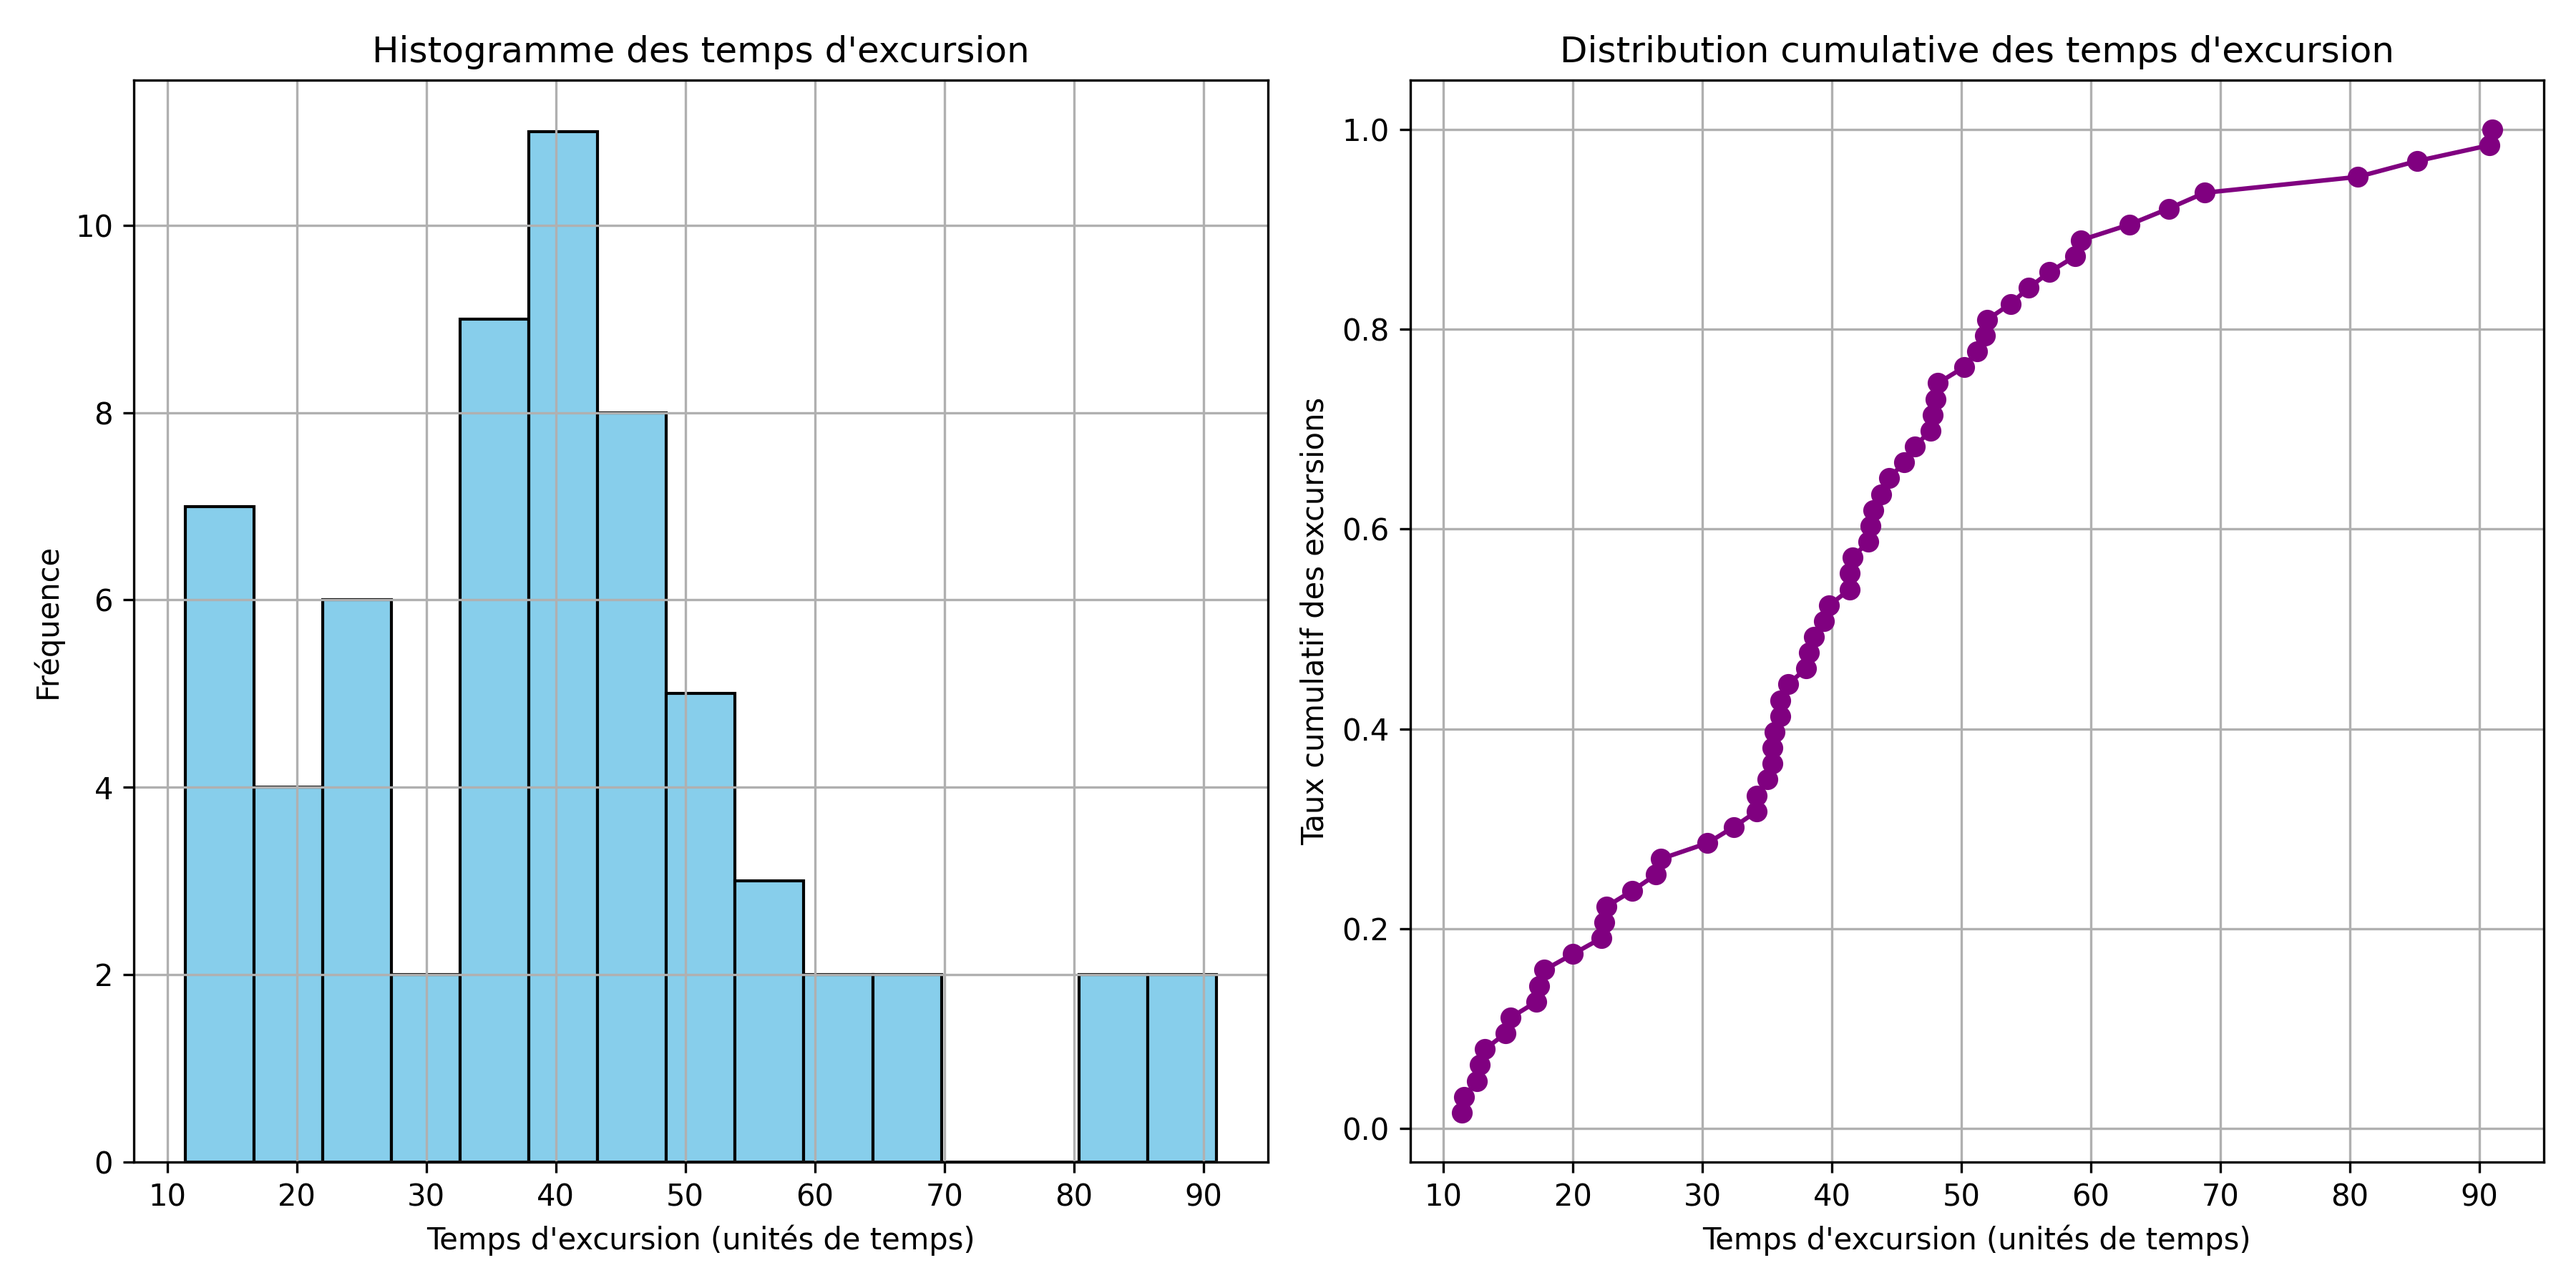
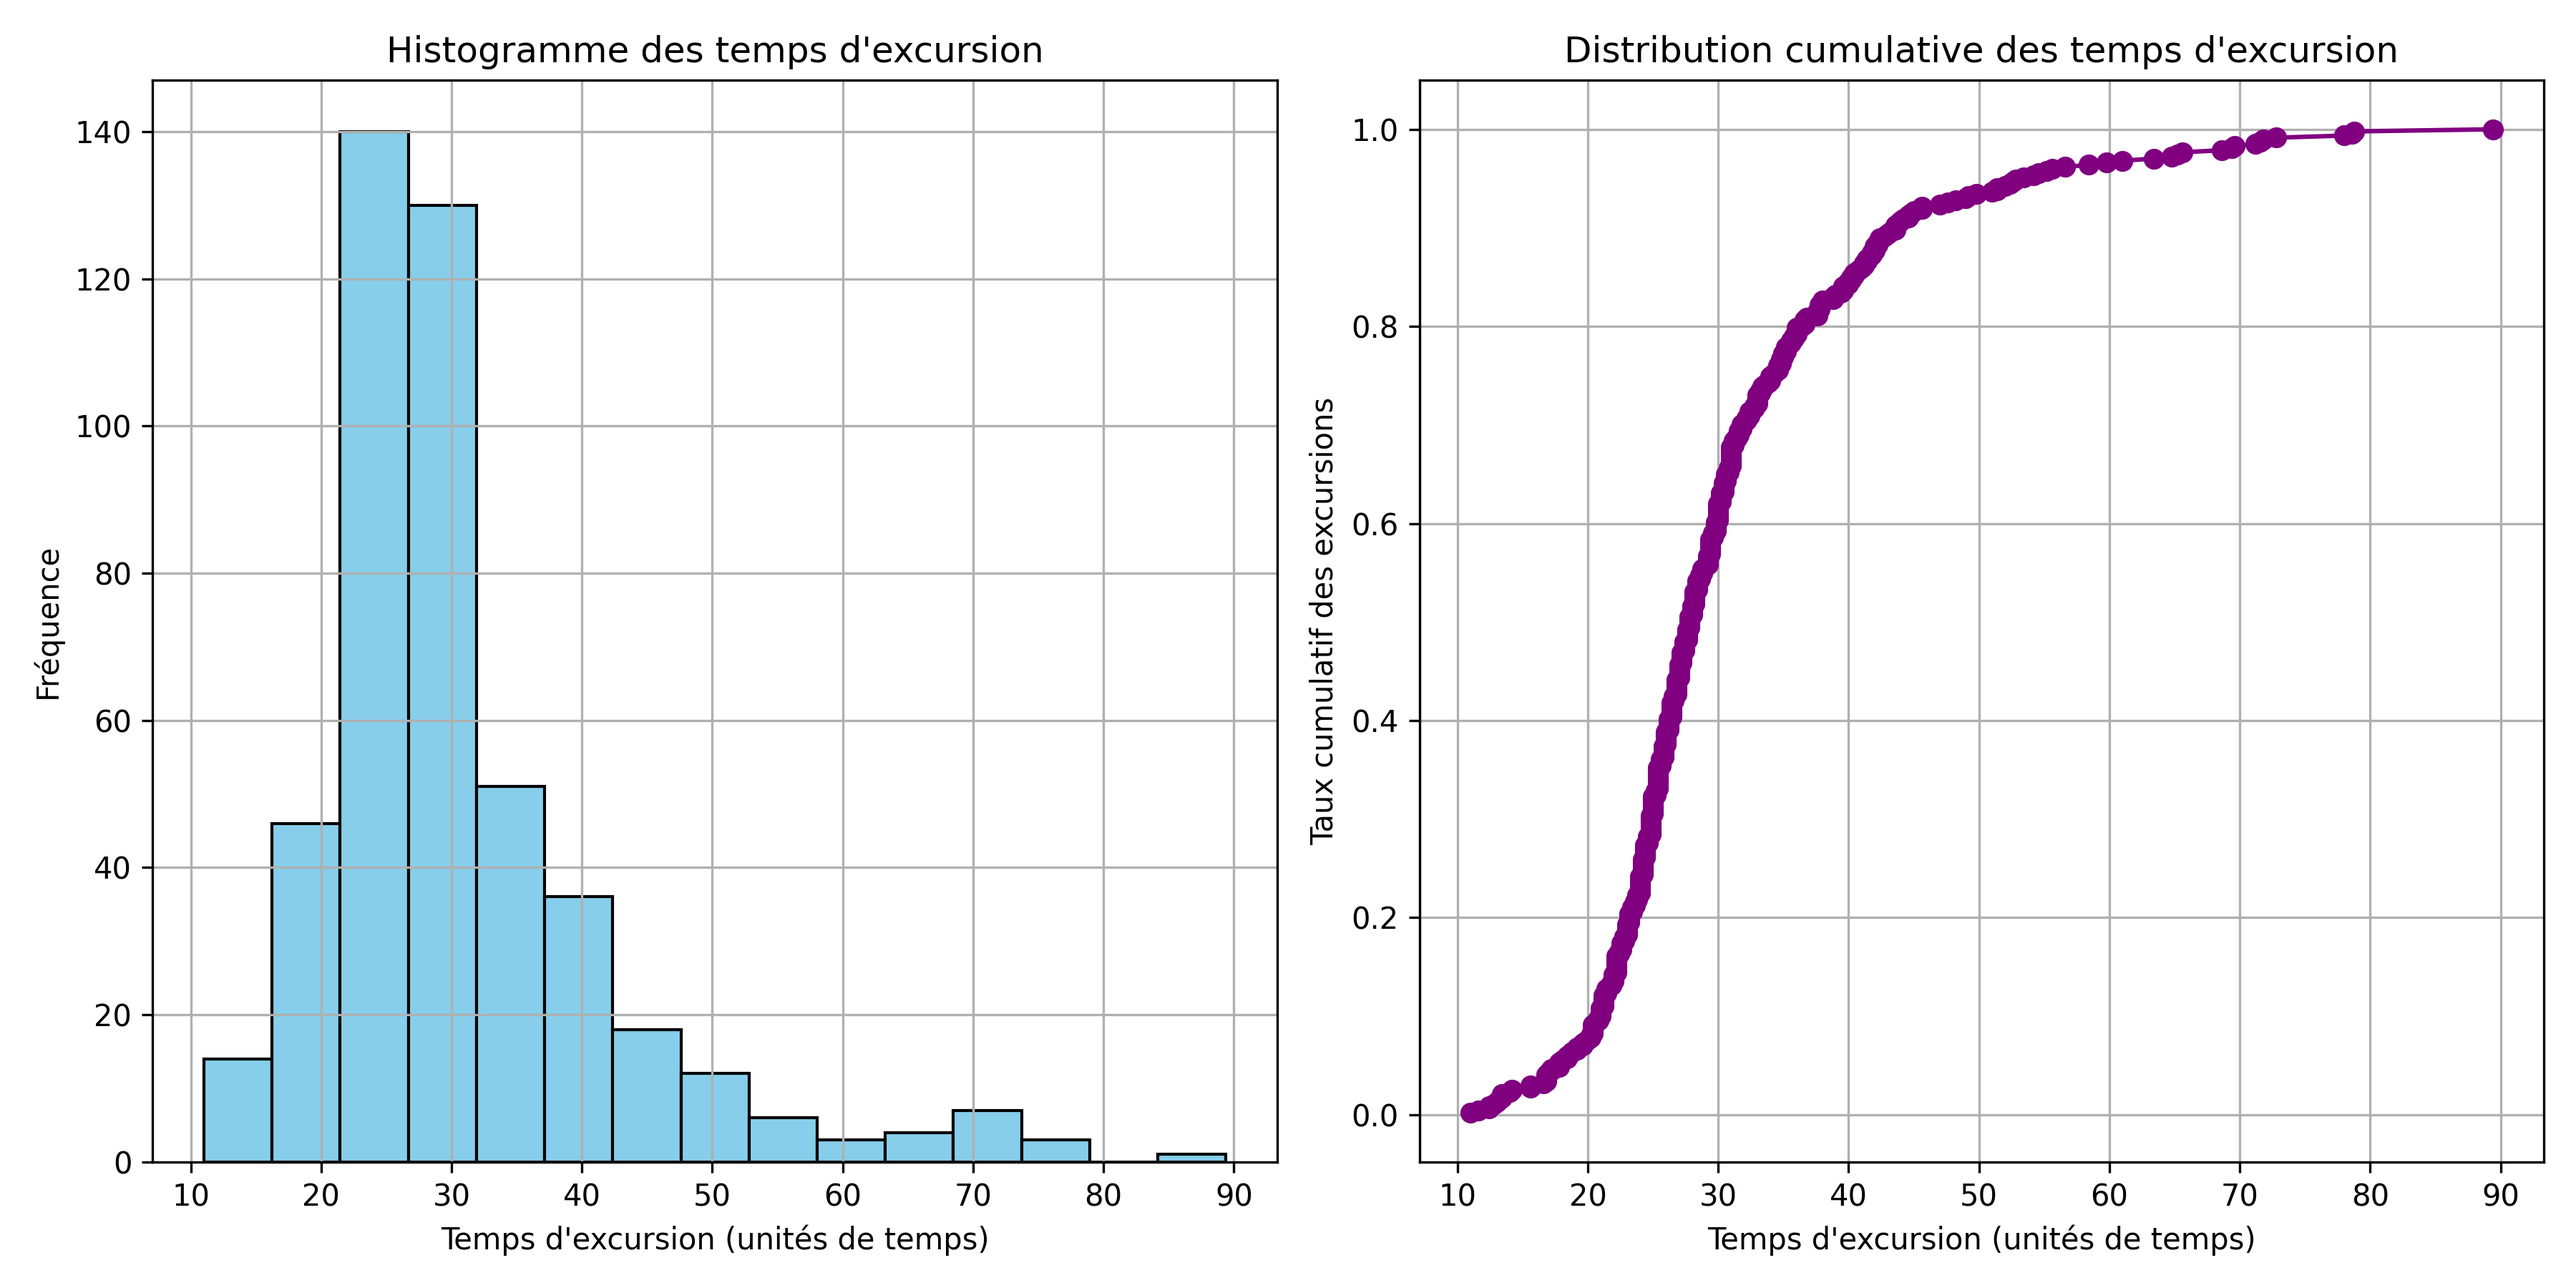
dernier changement figS7

diff --git a/Figure_S7/figure_S7.py b/Figure_S7/figure_S7.py
@@ -61,7 +61,7 @@ S0 = 5
 T_END = 120
 DT = 0.2
 
-NUM_SIMULATIONS = 5  # Nombre de séries temporelles à afficher
+NUM_SIMULATIONS = 2  # Nombre de séries temporelles à afficher
 
 plt.figure(figsize=(15, 10))
 
@@ -73,7 +73,7 @@ for i in range(NUM_SIMULATIONS):
     plt.plot(t, s, label='ComS Concentration', color='green', linewidth=1.5)
 
     # Remplir l'arrière-plan en rouge lorsque k dépasse 0.4
-    threshold = 0.4
+    threshold = 0.8
     for j in range(len(k) - 1):
         if k[j] * 10 > threshold and k[j + 1] * 10 > threshold:
             plt.fill_between(t[j:j+2], 0, 1, color='red', alpha=0.3)
@@ -88,10 +88,10 @@ plt.tight_layout()
 plt.savefig('FigS7_time_series.png', dpi=300)
 plt.show()
 
-NUM_SIMULATIONS = 100
+NUM_SIMULATIONS = 1000
 
 all_excursion_times = []
-threshold = 0.45
+threshold = 0.8
 # Exécuter plusieurs simulations pour collecter les temps d'excursion
 for _ in range(NUM_SIMULATIONS):
     k, s, t = simulate_system(BK, BS, K0, S0, T_END, DT)
